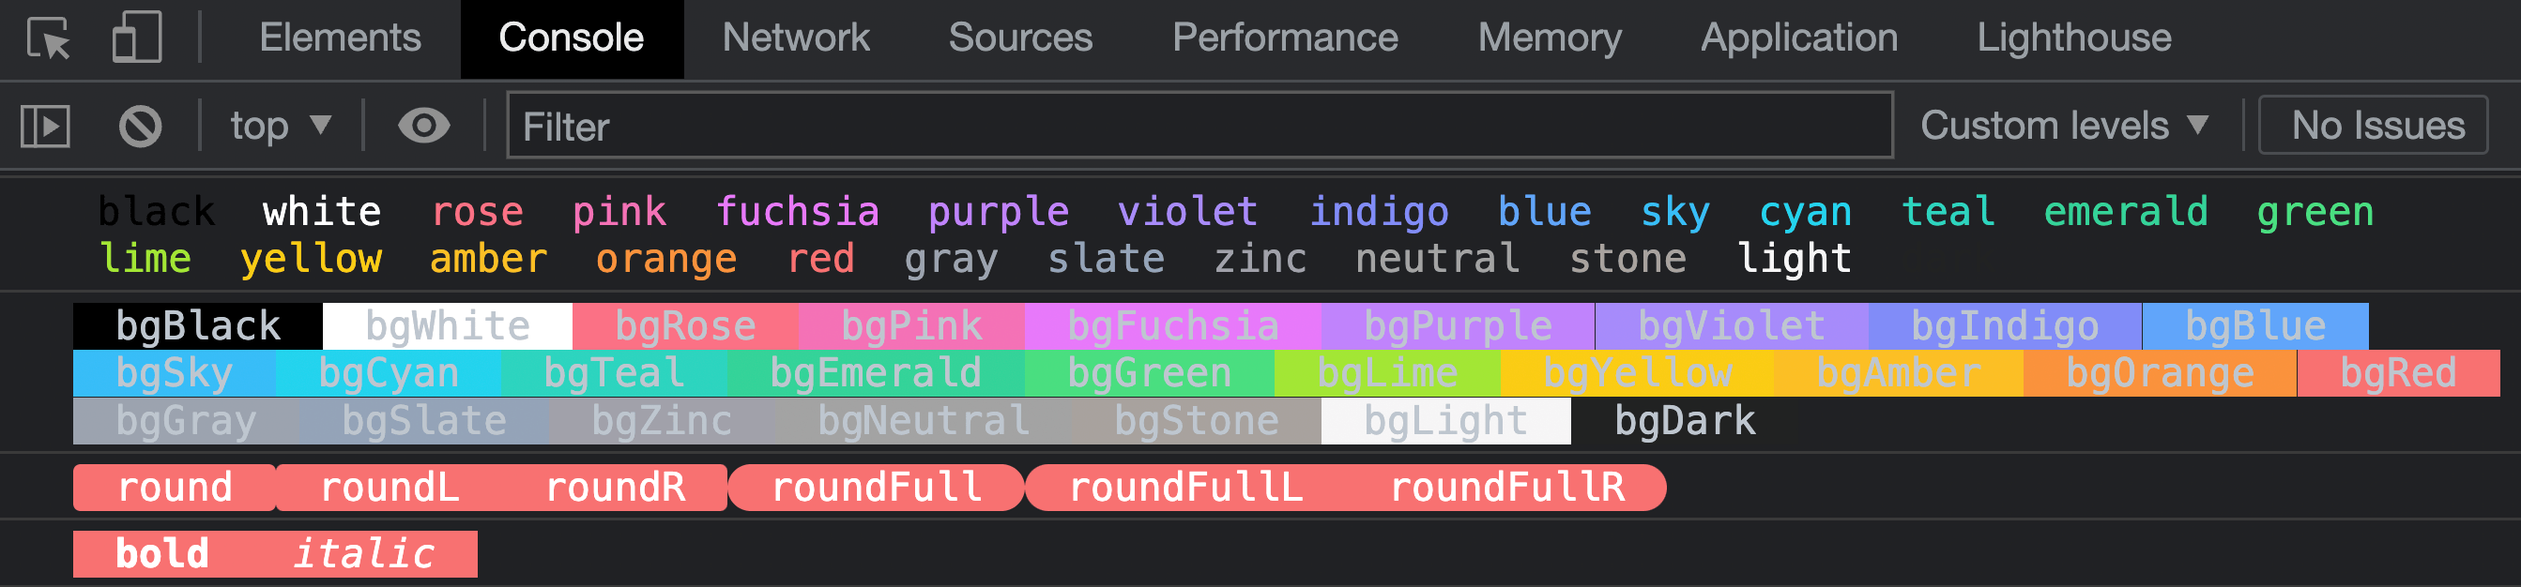
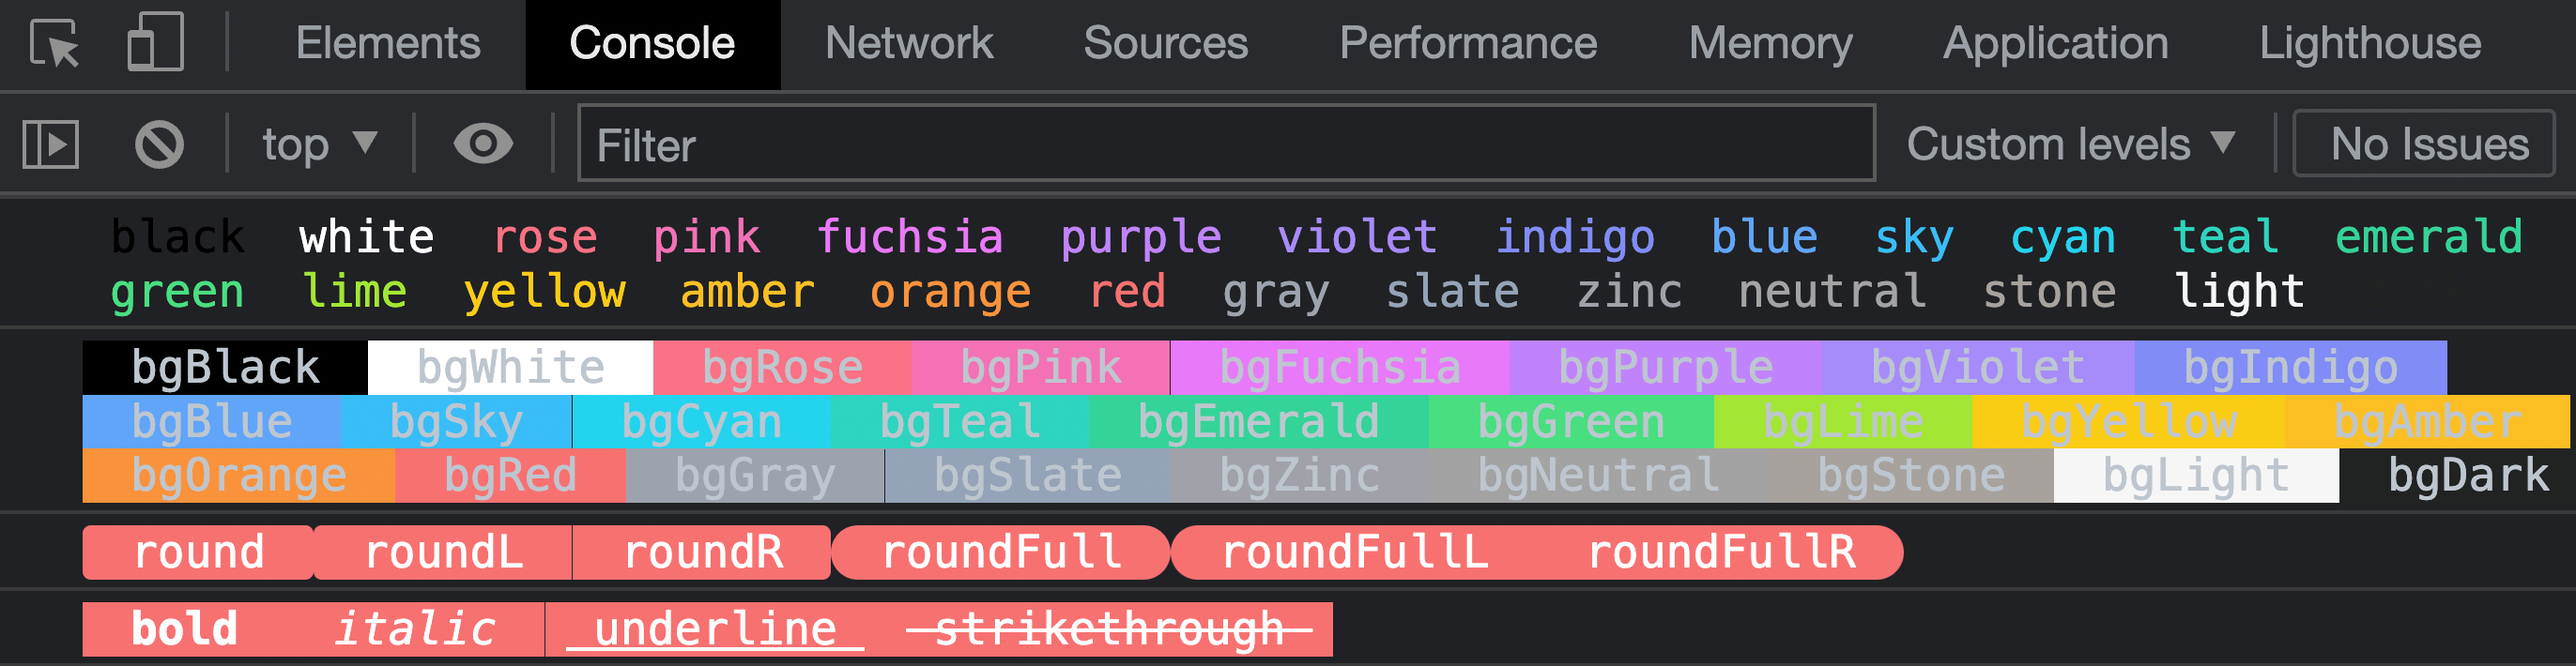
feat: add more style

diff --git a/src/index.ts b/src/index.ts
@@ -3,6 +3,8 @@ import { Pair, Output, ExpandColor, ExpandRound, LogType, InferStyle, InferLog }
 const modifier = {
   bold: 'font-weight:bold;',
   italic: 'font-style:italic;',
+  underline: 'text-decoration:underline;',
+  strikethrough: 'text-decoration:line-through;'
 }
 
 const color = {
